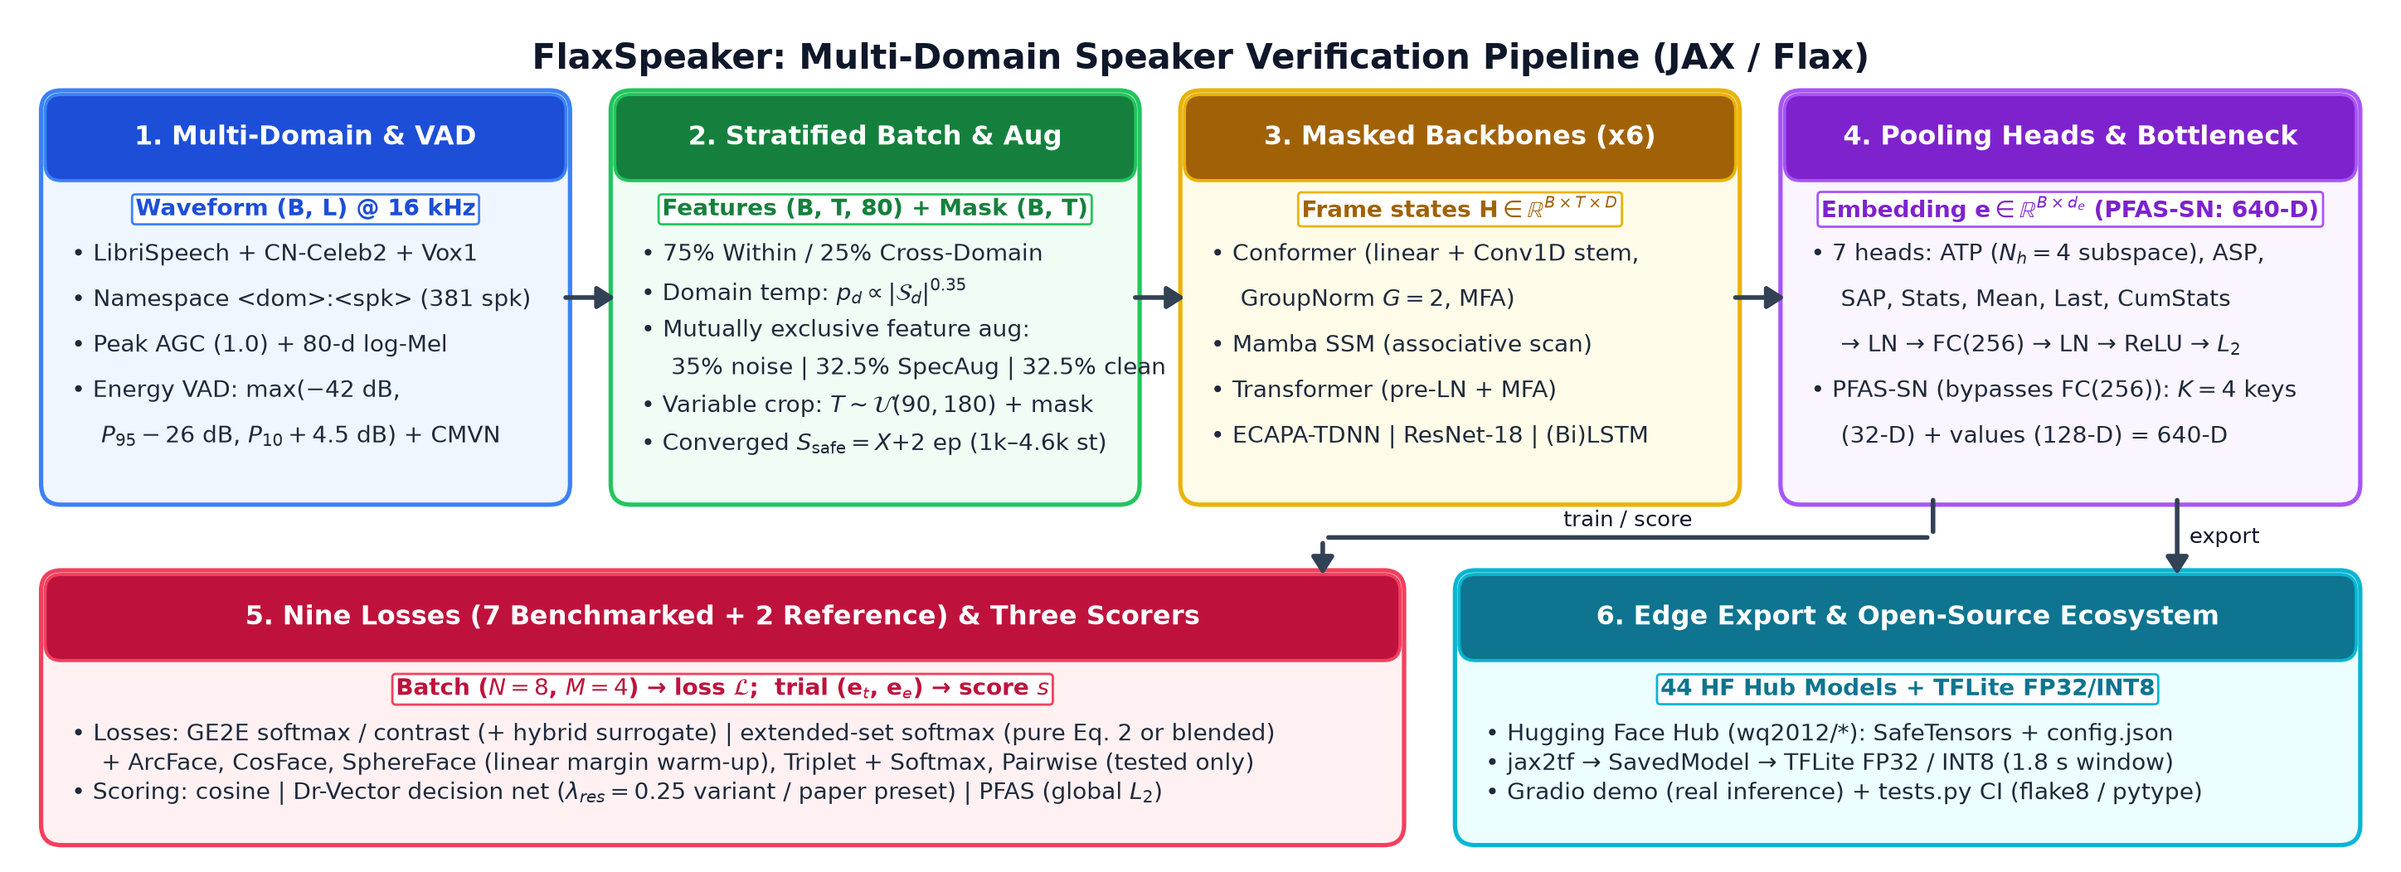
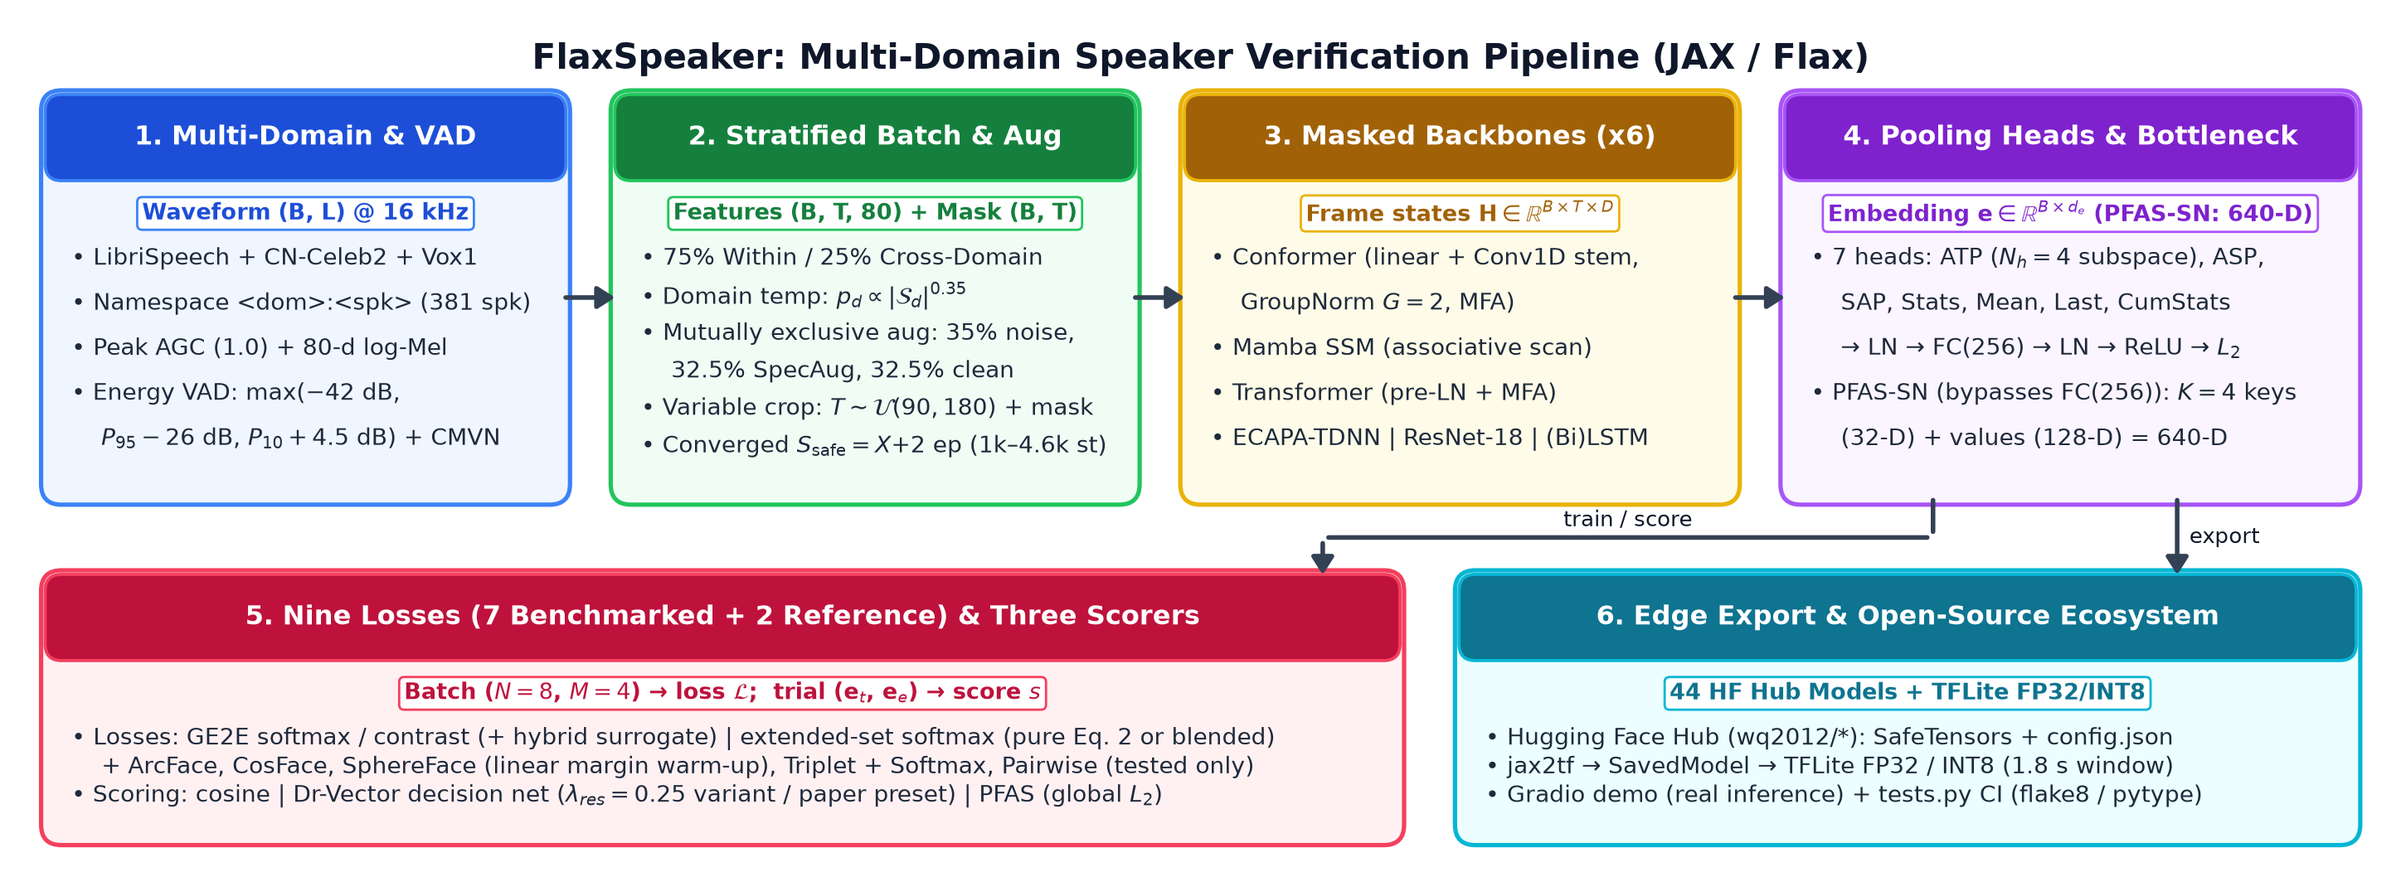
Fix v0.4.0 prose metric ranges, step-0 tie wording, and Figure 1 layout

diff --git a/scripts/generate_figures.py b/scripts/generate_figures.py
@@ -98,22 +98,22 @@ def draw_architecture_diagram(
         # Tensor shape pill
         ax.text(
             x + w / 2,
-            y + h - hdr_h - 0.17,
+            y + h - hdr_h - 0.19,
             shape_tag,
             ha="center",
             va="center",
-            fontsize=8.0,
+            fontsize=7.8,
             fontweight="bold",
             color=hdr,
             bbox=dict(
-                boxstyle="round,pad=0.15",
+                boxstyle="round,pad=0.22",
                 facecolor="#FFFFFF",
                 edgecolor=border,
                 lw=0.8,
             ),
         )
-        top_y = y + h - hdr_h - 0.39
-        step = (h - hdr_h - 0.45) / max(len(items), 1)
+        top_y = y + h - hdr_h - 0.41
+        step = (h - hdr_h - 0.46) / max(len(items), 1)
         for idx, item in enumerate(items):
             prefix = "  " if item.startswith("  ") else "• "
             ax.text(
@@ -179,8 +179,8 @@ def draw_architecture_diagram(
         [
             "75% Within / 25% Cross-Domain",
             "Domain temp: $p_d \\propto |\\mathcal{S}_d|^{0.35}$",
-            "Mutually exclusive feature aug:",
-            "  35% noise | 32.5% SpecAug | 32.5% clean",
+            "Mutually exclusive aug: 35% noise,",
+            "  32.5% SpecAug, 32.5% clean",
             "Variable crop: $T \\sim \\mathcal{U}(90, 180)$ + mask",
             "Converged $S_{\\mathrm{safe}}{=}X{+}2$ ep (1k–4.6k st)",
         ],

diff --git a/scripts/generate_paper_tables.py b/scripts/generate_paper_tables.py
@@ -279,6 +279,26 @@ def main(paper_dir: str) -> None:
     nums.append(macro_def("univWinsPooledOne", str(len(pairs) - len(worse_pool1))))
     nums.append(macro_def("univWinsMacroOne", str(len(pairs) - len(worse_macro1))))
     nums.append(macro_def("univWinsPooledThree", str(len(pairs) - len(worse_pool3))))
+    pool1_gains = [
+        d1(ex[t], "universal_pooled")["eer_percent"]
+        - d1(ex[m], "universal_pooled")["eer_percent"]
+        for m, t in pairs
+    ]
+    macro1_gains = [
+        macro(ex[t], 1)["eer_percent"] - macro(ex[m], 1)["eer_percent"]
+        for m, t in pairs
+    ]
+    pool3_gains = [
+        d3(ex[t], "universal_pooled")["eer_percent"]
+        - d3(ex[m], "universal_pooled")["eer_percent"]
+        for m, t in pairs
+    ]
+    nums.append(macro_def("univGainPooledOneMin", f2(min(pool1_gains))))
+    nums.append(macro_def("univGainPooledOneMax", f2(max(pool1_gains))))
+    nums.append(macro_def("univGainMacroOneMin", f2(min(macro1_gains))))
+    nums.append(macro_def("univGainMacroOneMax", f2(max(macro1_gains))))
+    nums.append(macro_def("univGainPooledThreeMin", f2(min(pool3_gains))))
+    nums.append(macro_def("univGainPooledThreeMax", f2(max(pool3_gains))))
 
     def pair_label(mid: str) -> str:
         e = ex[mid]

diff --git a/scripts/deploy_hf_space.py b/scripts/deploy_hf_space.py
@@ -4,7 +4,7 @@
     python scripts/deploy_hf_space.py --repo_id wq2012/FlaxSpeaker
 
 Uploads `app.py`, `README.md` (Space metadata front-matter), `requirements.txt` and the
-`examples/` audio clips. The Space installs `flaxspeaker` from GitHub `main` (see
+`examples/` audio clips. The Space installs `flaxspeaker>=0.4.0` from PyPI (see
 `hf_space/requirements.txt`) and downloads checkpoints from the Hub on first use, so
 no weights are uploaded here.
 """
@@ -32,7 +32,7 @@ def main() -> None:
         repo_type="space",
         folder_path=SPACE_DIR,
         ignore_patterns=["__pycache__/*", "*.pyc"],
-        commit_message="Deploy FlaxSpeaker Gradio demo (real inference, per-model calibrated thresholds)",
+        commit_message="Deploy FlaxSpeaker v0.4.0 Gradio demo (real inference, per-model calibrated thresholds)",
     )
     print(f"Uploaded {SPACE_DIR} to https://huggingface.co/spaces/{args.repo_id}")
 

diff --git a/hf_space/app.py b/hf_space/app.py
@@ -434,7 +434,7 @@ def build_demo() -> Any:
             "> **Corpus-scale caveat**: all 44 checkpoints (`v0.4.0`) are trained to convergence "
             "(`S_safe = X + 2 epochs`, 1,000–4,600 steps) on bounded public subsets (≤381 "
             "speakers, ≤9,447 utterances), achieving **14.60–22.35% pooled 1-utt EER** "
-            "(10.40–19.67% 3-utt; 19.15–29.96% on a 10-speaker VoxCeleb1-O subset; published "
+            "(10.40–19.03% 3-utt; 19.15–29.96% on a 10-speaker VoxCeleb1-O subset; published "
             "systems trained on 6,000-speaker VoxCeleb2 reach ~1%). Every verdict "
             "below is real inference of the selected checkpoint on your audio; the default decision "
             "threshold is the model's own pooled EER operating point from `eval_results.json` "

diff --git a/flaxspeaker/__init__.py b/flaxspeaker/__init__.py
@@ -2,7 +2,7 @@
 
 Features:
 - Neural Backbones: LSTM, Transformer, Conformer, Mamba (Selective SSM),
-  ECAPA-TDNN, ResNet-34 / Thin-ResNet (`flaxspeaker.backbones`)
+  ECAPA-TDNN, SE-ResNet-18 / ResNet-34 (`flaxspeaker.backbones`)
 - Temporal Pooling: Mean, Last, Stats, SAP, ASP, ATP, Cumulative Stats, PFAS
   (`flaxspeaker.pooling`)
 - Losses & Scoring:

diff --git a/README.md b/README.md
@@ -4,7 +4,7 @@
 
 **FlaxSpeaker** (`v0.4.0`) is an end-to-end open-source speaker verification library built on [JAX](https://jax.readthedocs.io) and [Flax](https://flax.readthedocs.io). Designed for education and academic research, it unifies dataset preparation, frame-level energy Voice Activity Detection (VAD) with peak Automatic Gain Control (AGC), an 80-D log-Mel frontend with CMVN, six neural sequence backbones, eight temporal pooling heads, nine metric-learning and angular-margin training objectives (seven of which are released in the 44-model zoo), three scoring paradigms, universal multi-domain stratified training, and one-command export to **TFLite (FP32 / dynamic-range INT8)**, **TensorFlow SavedModel**, **SafeTensors**, and the **Hugging Face Hub**.
 
-> **Scope & Corpus-Scale Notice (`v0.4.0`).** All 44 published checkpoints in `v0.4.0` are **converged CPU research checkpoints** trained to calibrated `S_safe = X + 2` epoch step budgets (`4,600` steps / `15.58` epochs on Universal; `2,400–2,600` steps / `13.27–14.37` epochs on LibriSpeech; `1,600–1,800` steps / `17.60–19.80` epochs on CN-Celeb2; `1,000` steps / `42.67` epochs on VoxCeleb1; `32` utterances per step, `N = 8 × M = 4`) with uniform variable-length masked crops `T ~ U(90, 180)` (`variable_length_training: true` across all 44 models, verified to `5e-5` step-0 loss tolerance in `pretrained_models/step0_fingerprints.json`: `42` `variable` + `2` crop-invariant `both`, `0` `fixed`, `0` `neither`) and linear angular-margin warm-up (`margin_warmup_steps`). Because the training corpora intentionally fit on a single workstation (`≤ 381` speakers, `≤ 9,447` utterances, `≤ 25` utterances/speaker), the 44 models reach **`14.60–22.35%`** pooled 1-utt EER (`14.60–19.25%` across the 19 `univ_*` models; `10.40–19.67%` pooled 3-utt EER) on the speaker-disjoint multi-domain trial lists and **`19.15–29.96%`** EER on a *10-speaker subset* of VoxCeleb1-O (**not comparable to published VoxCeleb1-O systems** trained on 7,000+ VoxCeleb2 speakers, which reach `~1%` EER). Several released configurations are **FlaxSpeaker variants** of the cited algorithms (see [Deviations from the Source Papers](#deviations-from-the-source-papers)); all four paper-faithful `pure_paper_mode=True` presets are also trained for `4,600` steps and benchmarked in `pretrained_models/ablation_results.json` (`studies.paper_faithful_presets_smoke_test`). Multi-seed stability across seeds `{0, 1, 2}` has a pooled 1-utt EER standard deviation of **`0.08%`** (`univ_conformer_small_ge2e`), **`0.14%`** (`univ_ecapa_tdnn_small_ge2e`), and **`0.41%`** (`ls_conformer_small_ge2e`; see [RESEARCH_REPORT.md §10](RESEARCH_REPORT.md)).
+> **Scope & Corpus-Scale Notice (`v0.4.0`).** All 44 published checkpoints in `v0.4.0` are **converged CPU research checkpoints** trained to calibrated `S_safe = X + 2` epoch step budgets (`4,600` steps / `15.58` epochs on Universal; `2,400–2,600` steps / `13.27–14.37` epochs on LibriSpeech; `1,600–1,800` steps / `17.60–19.80` epochs on CN-Celeb2; `1,000` steps / `42.67` epochs on VoxCeleb1; `32` utterances per step, `N = 8 × M = 4`) with uniform variable-length masked crops `T ~ U(90, 180)` (`variable_length_training: true` across all 44 models, verified to `5e-5` step-0 loss tolerance in `pretrained_models/step0_fingerprints.json`: `42` unique `variable` + `2` `both` where fixed and variable step-0 losses round to the same 4-decimal value, `0` `fixed`, `0` `neither`) and linear angular-margin warm-up (`margin_warmup_steps`). Because the training corpora intentionally fit on a single workstation (`≤ 381` speakers, `≤ 9,447` utterances, `≤ 25` utterances/speaker), the 44 models reach **`14.60–22.35%`** pooled 1-utt EER (`14.60–19.25%` across the 19 `univ_*` models; `10.40–19.03%` pooled 3-utt EER) on the speaker-disjoint multi-domain trial lists and **`19.15–29.96%`** EER on a *10-speaker subset* of VoxCeleb1-O (**not comparable to published VoxCeleb1-O systems** trained on 7,000+ VoxCeleb2 speakers, which reach `~1%` EER). Several released configurations are **FlaxSpeaker variants** of the cited algorithms (see [Deviations from the Source Papers](#deviations-from-the-source-papers)); all four paper-faithful `pure_paper_mode=True` presets are also trained for `4,600` steps and benchmarked in `pretrained_models/ablation_results.json` (`studies.paper_faithful_presets_smoke_test`). Multi-seed stability across seeds `{0, 1, 2}` has a pooled 1-utt EER standard deviation of **`0.08%`** (`univ_conformer_small_ge2e`), **`0.14%`** (`univ_ecapa_tdnn_small_ge2e`), and **`0.41%`** (`ls_conformer_small_ge2e`; see [RESEARCH_REPORT.md §10](RESEARCH_REPORT.md)).
 
 For the companion PyTorch educational project, see [SpeakerRecognitionFromScratch](https://github.com/wq2012/SpeakerRecognitionFromScratch).
 
@@ -268,7 +268,7 @@ All 19 `univ_*` models below are trained simultaneously on **LibriSpeech (`232` 
 
 ### 3. Universal Multi-Domain vs. Single-Domain Training (`19 / 19` Matched Pairs Improved)
 
-At full convergence (`S_safe`), **Universal Multi-Domain training outperforms the matched LibriSpeech specialist in all `19 / 19` `univ_*` vs. `ls_*` pairs** across **Pooled 1-Utt EER** (`-2.39` to `-5.66 pp`), **Macro-Avg 1-Utt EER** (`-2.24` to `-5.86 pp`), and **Pooled 3-Utt EER** (`-2.16` to `-6.87 pp`). Crucially, the matched-data control in `r2_seed_and_control_results.json` isolates speaker/domain diversity from utterance count: subsampling the 381-speaker Universal mix to **`5,788` utterances** (matching LibriSpeech) and training for **`2,400` steps** (matching compute) achieves **`17.04%` Pooled 1-Utt EER** (`17.28%` Macro 1-Utt, `12.87%` Pooled 3-Utt) vs. **`20.79%`** for `ls_conformer_small_ge2e` (**`-3.75 pp`** improvement at identical utterance count and step budget), and **`15.28%` Pooled 1-Utt EER** at `4,600` steps. Meanwhile, single-domain specialists retain a narrow edge strictly on their own training domain (`ls_conformer_small_arcface` `5.23%` vs. `univ_conformer_small_arcface` `5.77%` on LibriSpeech; `cn_conformer_small_ge2e` `18.97%` vs. `univ_conformer_small_ge2e` `19.07%` on CN-Celeb2; `vox_conformer_small_ge2e` `19.10%` vs. `21.40%` on VoxCeleb1) while degrading sharply out-of-domain:
+At full convergence (`S_safe`), **Universal Multi-Domain training outperforms the matched LibriSpeech specialist in all `19 / 19` `univ_*` vs. `ls_*` pairs** across **Pooled 1-Utt EER** (`-2.39` to `-5.65 pp`), **Macro-Avg 1-Utt EER** (`-2.24` to `-5.86 pp`), and **Pooled 3-Utt EER** (`-2.17` to `-6.87 pp`). Crucially, the matched-data control in `r2_seed_and_control_results.json` isolates speaker/domain diversity from utterance count: subsampling the 381-speaker Universal mix to **`5,788` utterances** (matching LibriSpeech) and training for **`2,400` steps** (matching compute) achieves **`17.04%` Pooled 1-Utt EER** (`17.28%` Macro 1-Utt, `12.87%` Pooled 3-Utt) vs. **`20.79%`** for `ls_conformer_small_ge2e` (**`-3.75 pp`** improvement at identical utterance count and step budget), and **`15.28%` Pooled 1-Utt EER** at `4,600` steps. Meanwhile, single-domain specialists retain a narrow edge strictly on their own training domain (`ls_conformer_small_arcface` `5.23%` vs. `univ_conformer_small_arcface` `5.77%` on LibriSpeech; `cn_conformer_small_ge2e` `18.97%` vs. `univ_conformer_small_ge2e` `19.07%` on CN-Celeb2; `vox_conformer_small_ge2e` `19.10%` vs. `21.40%` on VoxCeleb1) while degrading sharply out-of-domain:
 
 | Model Paradigm | Representative Checkpoint (`Steps`) | LS 1-Utt / 3-Utt EER (%) | CN 1-Utt / 3-Utt EER (%) | VOX 1-Utt / 3-Utt EER (%) | Universal Macro-Avg 1-Utt / 3-Utt EER (%) | Universal Pooled 1-Utt / 3-Utt EER (%) |
 | :--- | :--- | :---: | :---: | :---: | :---: | :---: |

diff --git a/RESEARCH_REPORT.md b/RESEARCH_REPORT.md
@@ -41,7 +41,7 @@ This report documents a 44-model converged empirical investigation of **Universa
      - **[`univ_conformer_small_sphereface`](https://huggingface.co/wq2012/univ_conformer_small_sphereface)** ties at **`14.60%` Pooled 1-Utt EER** (`10.53%` Pooled 3-Utt EER), while **[`univ_conformer_small_cosface`](https://huggingface.co/wq2012/univ_conformer_small_cosface)** achieves **`14.71%` Pooled 1-Utt EER**, the best **`10.40%` Pooled 3-Utt EER** (`9.63%` Macro 3-Utt EER, `2.50%` LibriSpeech 3-Utt EER, `0.4847` Macro 3-Utt minDCF@0.01), and the best **`19.15%`** EER on the VoxCeleb1-O 10-speaker subset.
 2. **Universal Multi-Domain Training Beats Matched LibriSpeech Specialists Across All `19 / 19` Pairs — Including at Matched Utterances & Compute**:
    - Single-domain specialists suffer severe out-of-domain degradation (`ls_conformer_small_ge2e`: `7.77%` LibriSpeech vs. `29.57%` CN-Celeb2 and `25.00%` VoxCeleb1, `20.79%` Pooled 1-utt EER; `ls_conformer_small_arcface`: `5.23%` LibriSpeech vs. `28.80%` CN-Celeb2, `19.48%` Pooled).
-   - At converged `S_safe` budgets, **`univ_*` improves over the matched `ls_*` specialist in `19 / 19` pairs** on Pooled 1-utt EER (`-2.39` to `-5.66 pp`), Macro 1-utt EER (`-2.24` to `-5.86 pp`), and Pooled 3-utt EER (`-2.16` to `-6.87 pp`).
+   - At converged `S_safe` budgets, **`univ_*` improves over the matched `ls_*` specialist in `19 / 19` pairs** on Pooled 1-utt EER (`-2.39` to `-5.65 pp`), Macro 1-utt EER (`-2.24` to `-5.86 pp`), and Pooled 3-utt EER (`-2.17` to `-6.87 pp`).
    - Holding utterance count (`5,788` utterances) and compute (`2,400` steps) strictly equal to `ls_conformer_small_ge2e`, subsampling the 381-speaker Universal mix lowers Pooled 1-utt EER from **`20.79%` to `17.04%`** (**`-3.75 pp`**, non-overlapping 95% CIs `[16.31, 17.91]` vs. `[19.95, 21.68]`), proving that multi-domain speaker diversity directly drives cross-domain generalization.
 3. **2D ResNet-18 Recovery, Tight 6-Backbone Convergence & Resolved Capacity Scaling**:
    - Under 4,600-step convergence, 2D `SE-ResNet-18` (`univ_resnet_small_ge2e`) drops from its 400-step cold-start (`27.89%`) to **`15.60%` Pooled 1-Utt EER** (`12.20%` Pooled 3-Utt EER, `0.5407` Macro 3-Utt minDCF@0.01), placing all six Small GE2E backbones within a `1.06 pp` band (`LSTM` `15.50%`, `ResNet-18` `15.60%`, `Conformer` `15.81%`, `ECAPA-TDNN` `16.34%`, `Transformer` `16.40%`, causal `Mamba` `16.56%`; bidirectional `Mamba` reaches **`15.59% / 11.93%`** in Study 5b).
@@ -99,7 +99,7 @@ All datasets are stored under `./data/speaker_datasets` (or `$FLAXSPEAKER_DATA_R
 ### 4.4 Frame-Level Energy VAD, Mutually Exclusive Augmentation & Uniform Variable-Length Crops
 - **VAD + AGC**: Peak-normalized waveform energy VAD (`26 dB` dynamic SNR margin, hangover `8` frames) applied identically in training and evaluation.
 - **Mutually Exclusive Augmentation**: `35%` synthetic log-Mel noise (`SNR ~ U(12, 20) dB`), `32.5%` SpecAugment, `32.5%` clean.
-- **Uniform Variable-Length Training (`T ~ U(90, 180)`)**: Every `v0.4.0` checkpoint is trained with per-utterance variable sequence lengths `T ~ U(90, 180)` (`0.9–1.8 s`) and exact binary masks `(B, T)`, and evaluated up to `max_eval_seq_len = 500` frames (`5.0 s`). Step-0 loss fingerprinting (`step0_fingerprints.json`) confirms `variable` (`42/44`) or crop-invariant `both` (`2/44`) across the entire zoo (`0` `fixed`, `0` `neither`).
+- **Uniform Variable-Length Training (`T ~ U(90, 180)`)**: Every `v0.4.0` checkpoint is trained with per-utterance variable sequence lengths `T ~ U(90, 180)` (`0.9–1.8 s`) and exact binary masks `(B, T)`, and evaluated up to `max_eval_seq_len = 500` frames (`5.0 s`). Step-0 loss fingerprinting (`step0_fingerprints.json`) confirms `variable` (`42/44`) or `both` (`2/44`, where fixed and variable step-0 losses round to the identical 4-decimal value) across the entire zoo (`0` `fixed`, `0` `neither`).
 
 ---
 

diff --git a/CHANGELOG.md b/CHANGELOG.md
@@ -19,7 +19,7 @@ Full-convergence 44-checkpoint model zoo release (`S_safe = X + 2 epochs`), line
 - **Converged benchmark highlights** (`pretrained_models/benchmark_results.json`, `pretrained_models/vox1_o_10spk_subset_results.json`):
   - **Pooled 1-utt EER across all 44 models drops to 14.60–22.35%** (`14.60–19.25%` across the 19 `univ_*` models; `19.15–29.96%` on the 10-speaker, 2,500-trial VoxCeleb1-O subset), improving over the 400-step v0.3.0 zoo (`18.75–30.23%`) on every model.
   - **Angular-margin classification overtakes metric learning at convergence**: `univ_conformer_small_arcface` (**14.60%** Pooled 1-utt / **10.87%** 3-utt / **14.63%** Macro 1-utt), `univ_conformer_small_sphereface` (**14.60%** / **10.53%**), and `univ_conformer_small_cosface` (**14.71%** / **10.40%** Pooled 3-utt / **9.63%** Macro 3-utt / **19.15%** VoxCeleb1-O subset) lead the 44-model zoo, whereas under the 400-step v0.3.0 budget they lagged `ge2e` (`22.41–25.33%` vs `19.40%`). On LibriSpeech, `ls_conformer_small_cosface` and `ls_conformer_small_arcface` reach **5.17%** (`2.50%` 3-utt) and **5.23%** (`2.20%` 3-utt).
-  - **2-D ResNet-34 and capacity scaling inversions resolved**: `univ_resnet_small_ge2e` improves from `27.89%` (400 steps) to **15.60%** Pooled 1-utt (`16.06%` Macro, second among the 6 universal Small backbones behind `univ_lstm_small_ge2e` at `15.50%`), and LibriSpeech Conformer scaling orders monotonically (`base` `7.40%` < `small` `7.77%` < `tiny` `7.87%`).
+  - **2-D ResNet-18 and capacity scaling inversions resolved**: `univ_resnet_small_ge2e` improves from `27.89%` (400 steps) to **15.60%** Pooled 1-utt (`16.06%` Macro, second among the 6 universal Small backbones behind `univ_lstm_small_ge2e` at `15.50%`), and LibriSpeech Conformer scaling orders monotonically (`base` `7.40%` < `small` `7.77%` < `tiny` `7.87%`).
   - **Universal multi-domain training beats single-domain specialists across all 19/19 matched pairs** on Pooled 1-utt, Macro 1-utt, and Pooled 3-utt EER.
 - **Re-exported FP32 & INT8 TFLite models** (`scripts/export_model.py`, `scripts/eval_tflite_models.py`): all 12 TFLite binaries across 6 repositories were re-exported from the converged checkpoints (`3.44–3.61x` compression to `1.90–2.33 MB`; `|INT8 - FP32|` EER delta $\le$ **0.10 pp**; mean FP32/INT8 embedding cosine similarity `0.999935–0.999972`).
 

diff --git a/hf_space/README.md b/hf_space/README.md
@@ -27,7 +27,7 @@ short_description: Speaker verification in JAX/Flax (GE2E, Dr-Vectors, ATP, PFAS
 
 ## Corpus-scale caveat (read first)
 
-All 44 selectable checkpoints (`v0.4.0`) were trained to full convergence plus a 2-epoch safety margin (`S_safe = X + 2 epochs`: 4,600 steps / 15.58 epochs on Universal; 2,400–2,600 steps on LibriSpeech; 1,600–1,800 steps on CN-Celeb2; 1,000 steps on VoxCeleb1) with variable-length masked crops ($T \sim \mathcal{U}(90, 180)$ frames). Because the training corpora are bounded public subsets ($\le 381$ speakers, $\le 9,447$ utterances), the zoo spans **14.60–22.35% pooled 1-utt EER** (**10.40–19.67% pooled 3-utt EER**, and **5.17%** LibriSpeech 1-utt EER / **2.20%** 3-utt EER in-domain) and **19.15–29.96% EER on a 10-speaker VoxCeleb1-O subset** (not comparable to published VoxCeleb1-O numbers); published systems trained on 6,000-speaker VoxCeleb2 with MUSAN/RIR reach about 1%. They are controlled research checkpoints for comparing backbones, pooling heads, objectives, and scorers, not industrial-scale models.
+All 44 selectable checkpoints (`v0.4.0`) were trained to full convergence plus a 2-epoch safety margin (`S_safe = X + 2 epochs`: 4,600 steps / 15.58 epochs on Universal; 2,400–2,600 steps on LibriSpeech; 1,600–1,800 steps on CN-Celeb2; 1,000 steps on VoxCeleb1) with variable-length masked crops ($T \sim \mathcal{U}(90, 180)$ frames). Because the training corpora are bounded public subsets ($\le 381$ speakers, $\le 9,447$ utterances), the zoo spans **14.60–22.35% pooled 1-utt EER** (**10.40–19.03% pooled 3-utt EER**, and **5.17%** LibriSpeech 1-utt EER / **2.20%** 3-utt EER in-domain) and **19.15–29.96% EER on a 10-speaker VoxCeleb1-O subset** (not comparable to published VoxCeleb1-O numbers); published systems trained on 6,000-speaker VoxCeleb2 with MUSAN/RIR reach about 1%. They are controlled research checkpoints for comparing backbones, pooling heads, objectives, and scorers, not industrial-scale models.
 
 ## What the demo does
 
